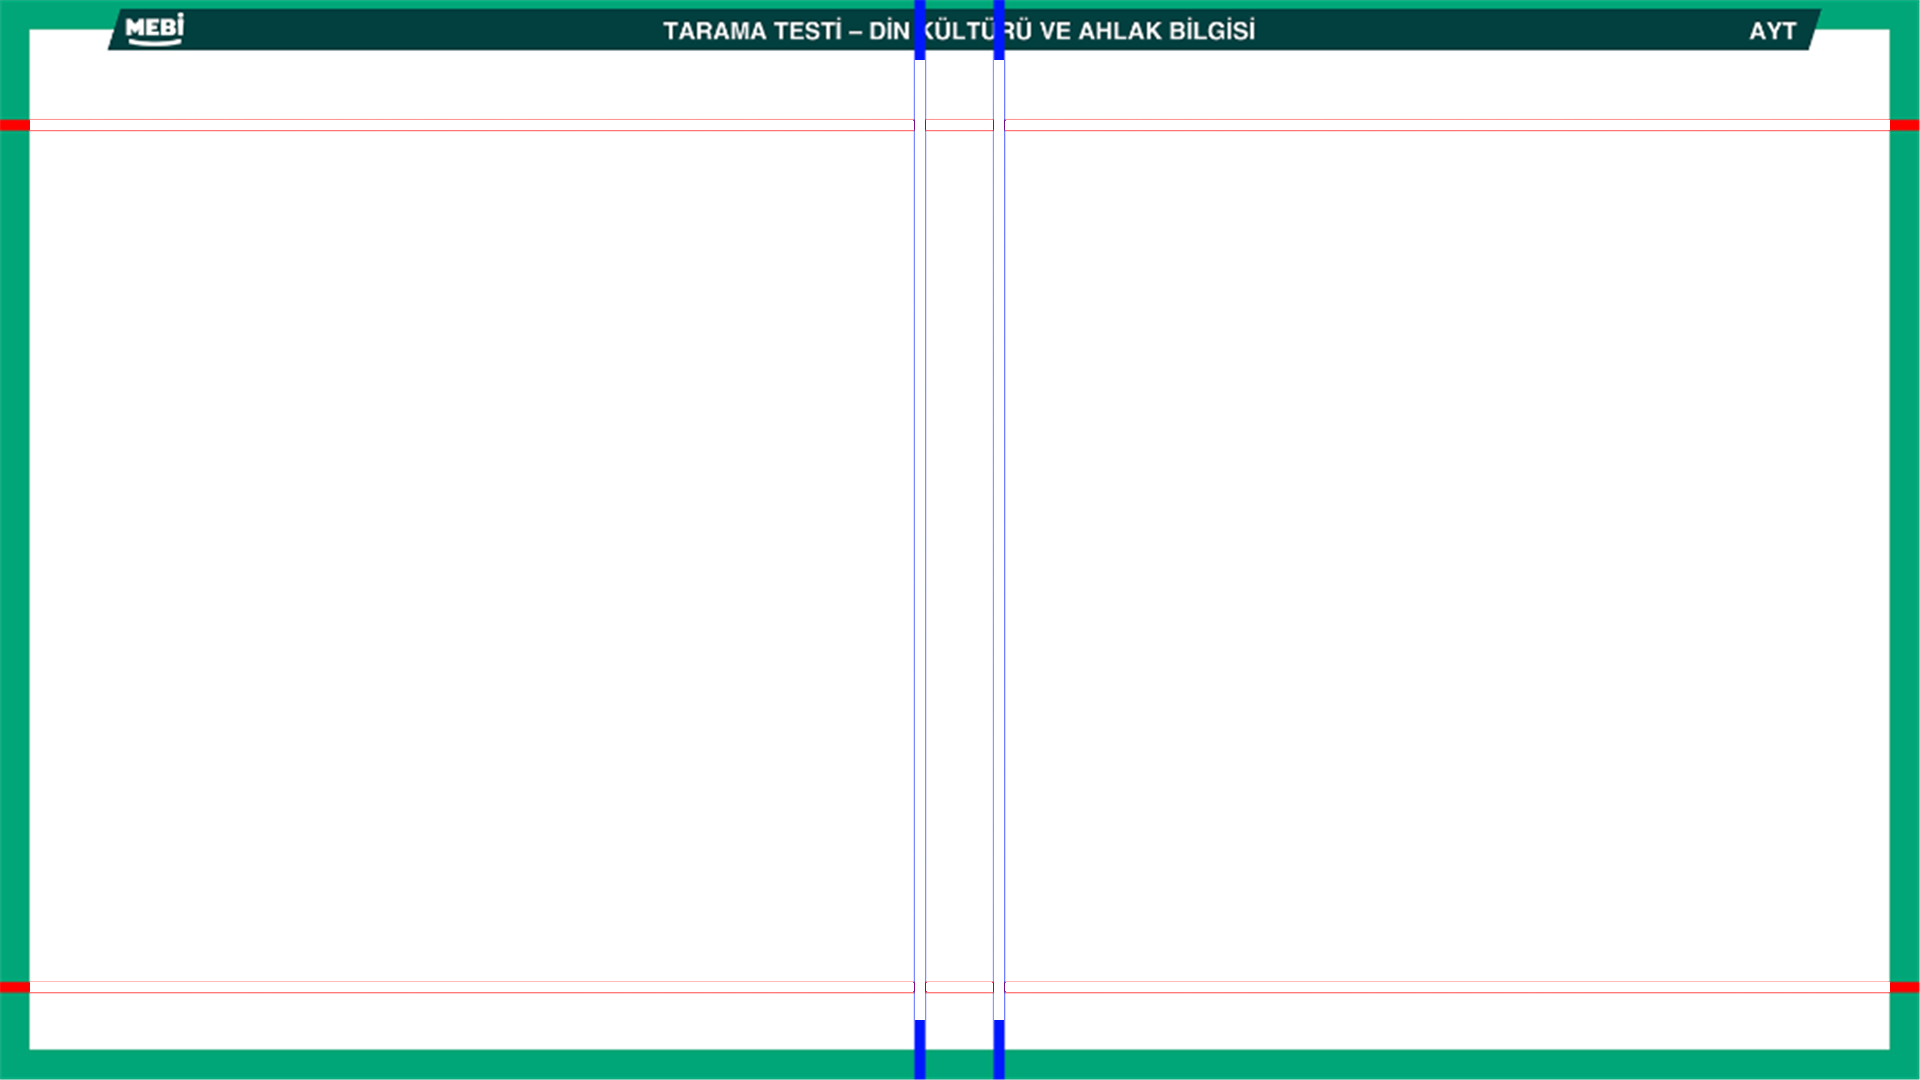
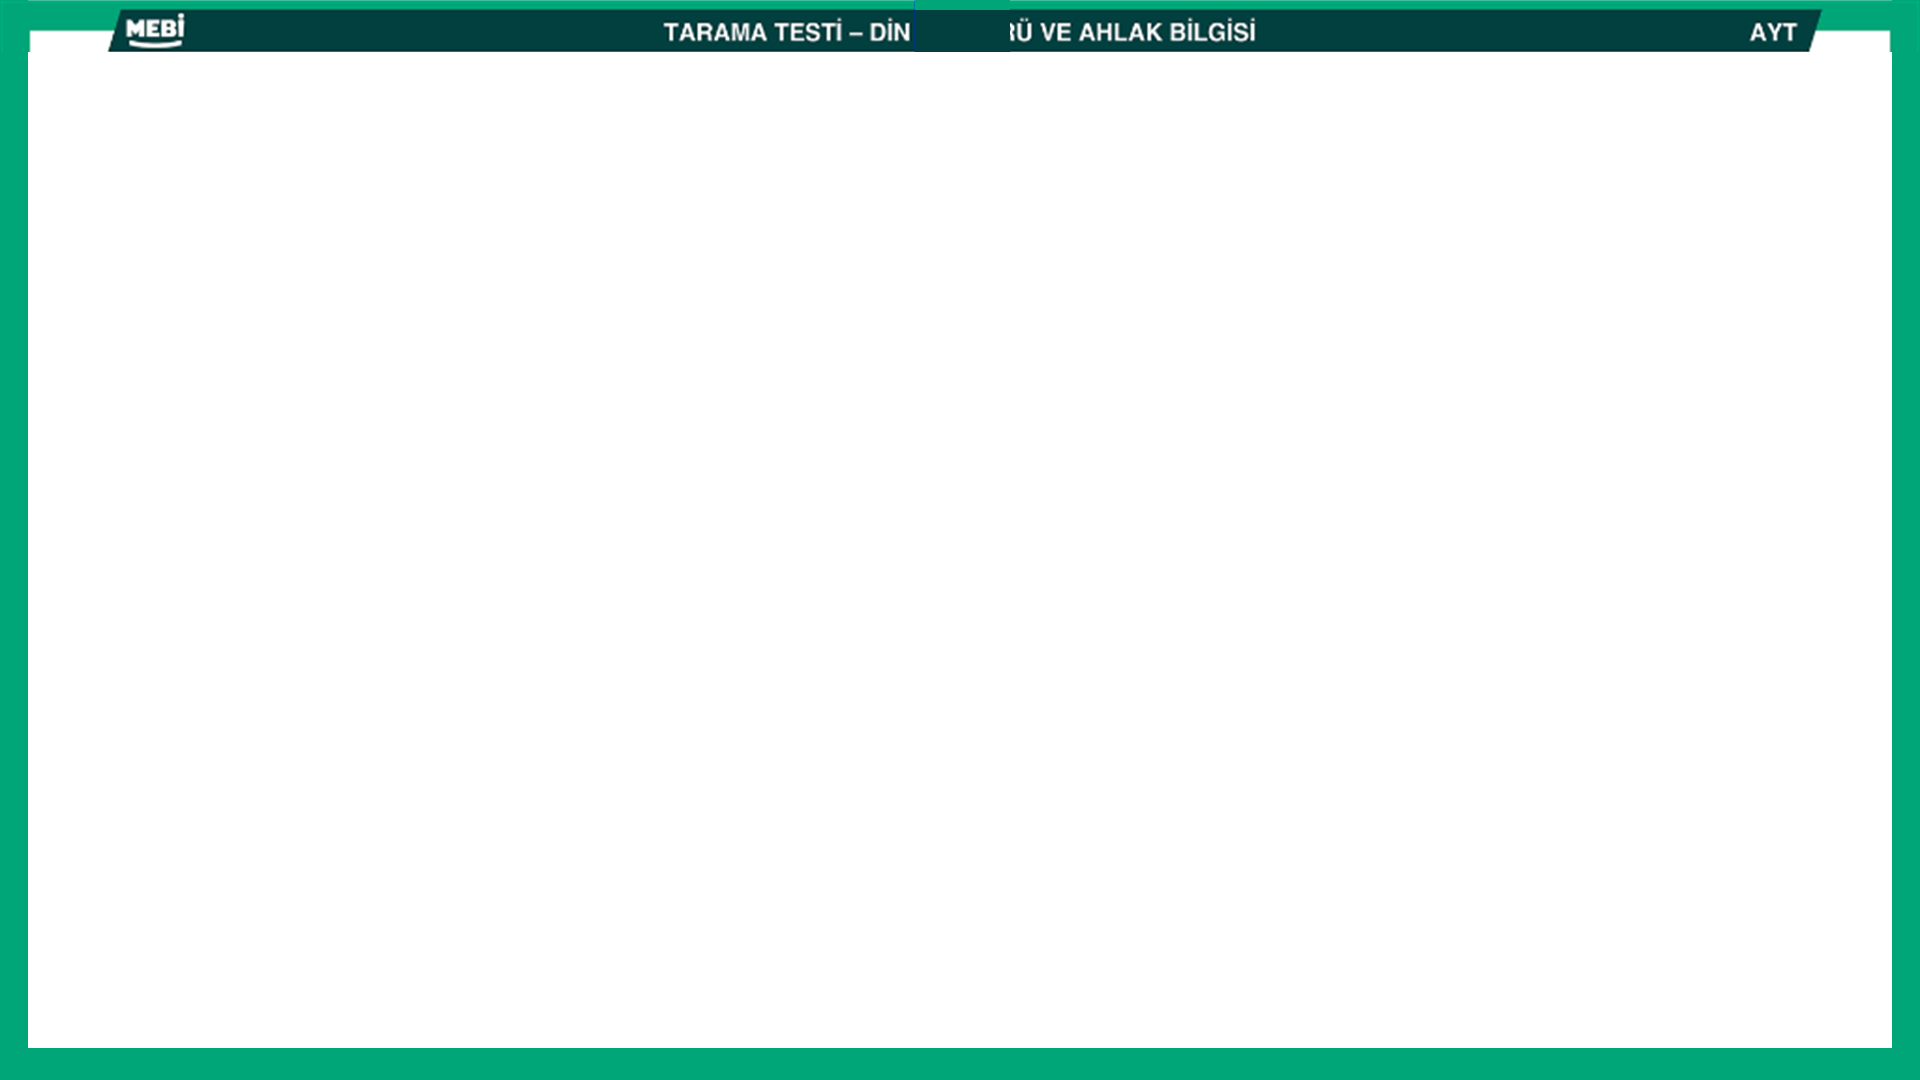
fix: generate 100% clean pristine template without any line artifacts and enable high-quality lossless PNG export

diff --git a/src/services/renderer.ts b/src/services/renderer.ts
@@ -54,6 +54,10 @@ export async function renderQuestionOnTemplate(
     throw new Error('Canvas 2D context alınamadı.');
   }
 
+  // Maksimum görsel kalitesi için bicubic yumuşatma
+  ctx.imageSmoothingEnabled = true;
+  ctx.imageSmoothingQuality = 'high';
+
   // 1. Şablon Arka Planını Çiz
   if (template.imageDataUrl) {
     const templateImg = await loadImage(template.imageDataUrl);
@@ -166,10 +170,10 @@ export async function renderQuestionOnTemplate(
     }
   }
 
-  // Blob ve DataURL çıktıları üret
-  const dataUrl = canvas.toDataURL('image/png', 0.98);
+  // Blob ve DataURL çıktıları üret (Kayıpsız tam kalite PNG)
+  const dataUrl = canvas.toDataURL('image/png');
   const blob = await new Promise<Blob>((resolve) => {
-    canvas.toBlob((b) => resolve(b || new Blob()), 'image/png', 0.98);
+    canvas.toBlob((b) => resolve(b || new Blob()), 'image/png');
   });
 
   return {

diff --git a/src/services/storage.ts b/src/services/storage.ts
@@ -104,9 +104,16 @@ export async function getTemplates(): Promise<Template[]> {
       request.onsuccess = () => {
         let list = request.result as Template[];
         if (!list || list.length === 0) {
-          const initial = { ...defaultTemplate, imageDataUrl: createDefaultTemplateCanvas() };
+          const initial = { ...defaultTemplate, imageDataUrl: '/mebi_template_clean.png' };
           saveTemplate(initial);
           list = [initial];
+        } else {
+          // Eski versiyondan kalan şablonu en yeni temiz şablonla güncelle
+          const defIdx = list.findIndex(t => t.id === 'default-template-1');
+          if (defIdx !== -1) {
+            list[defIdx].imageDataUrl = '/mebi_template_clean.png';
+            saveTemplate(list[defIdx]);
+          }
         }
         resolve(list);
       };
